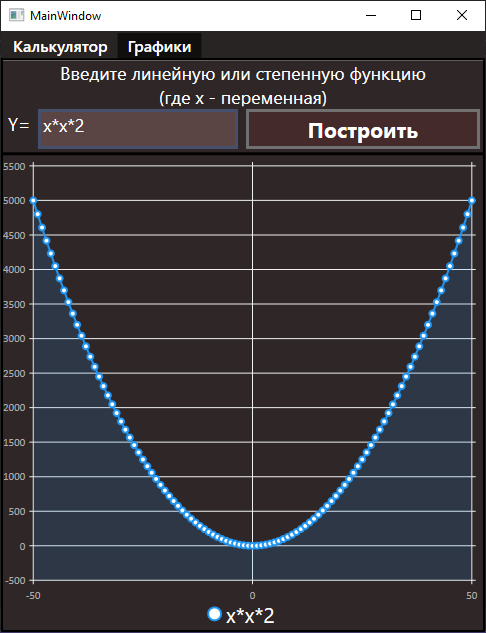
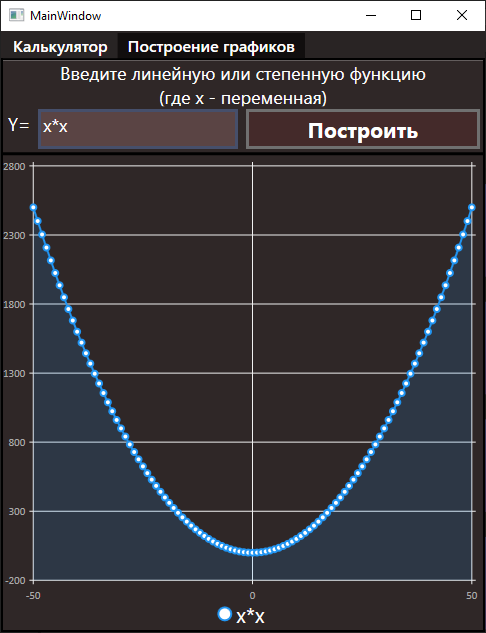
Изменение заголовка tabItem

diff --git a/CalculatorWPF/MainWindow.xaml b/CalculatorWPF/MainWindow.xaml
@@ -153,7 +153,7 @@
             <TabItem Style="{DynamicResource TabHeaderStyle}">
                 <TabItem.Header>
                     <TextBlock Style="{StaticResource TabHeaderTextStyle}"
-                               Text="Графики" />
+                               Text="Построение графиков" />
                 </TabItem.Header>
                 <TabItem.Content>
 
